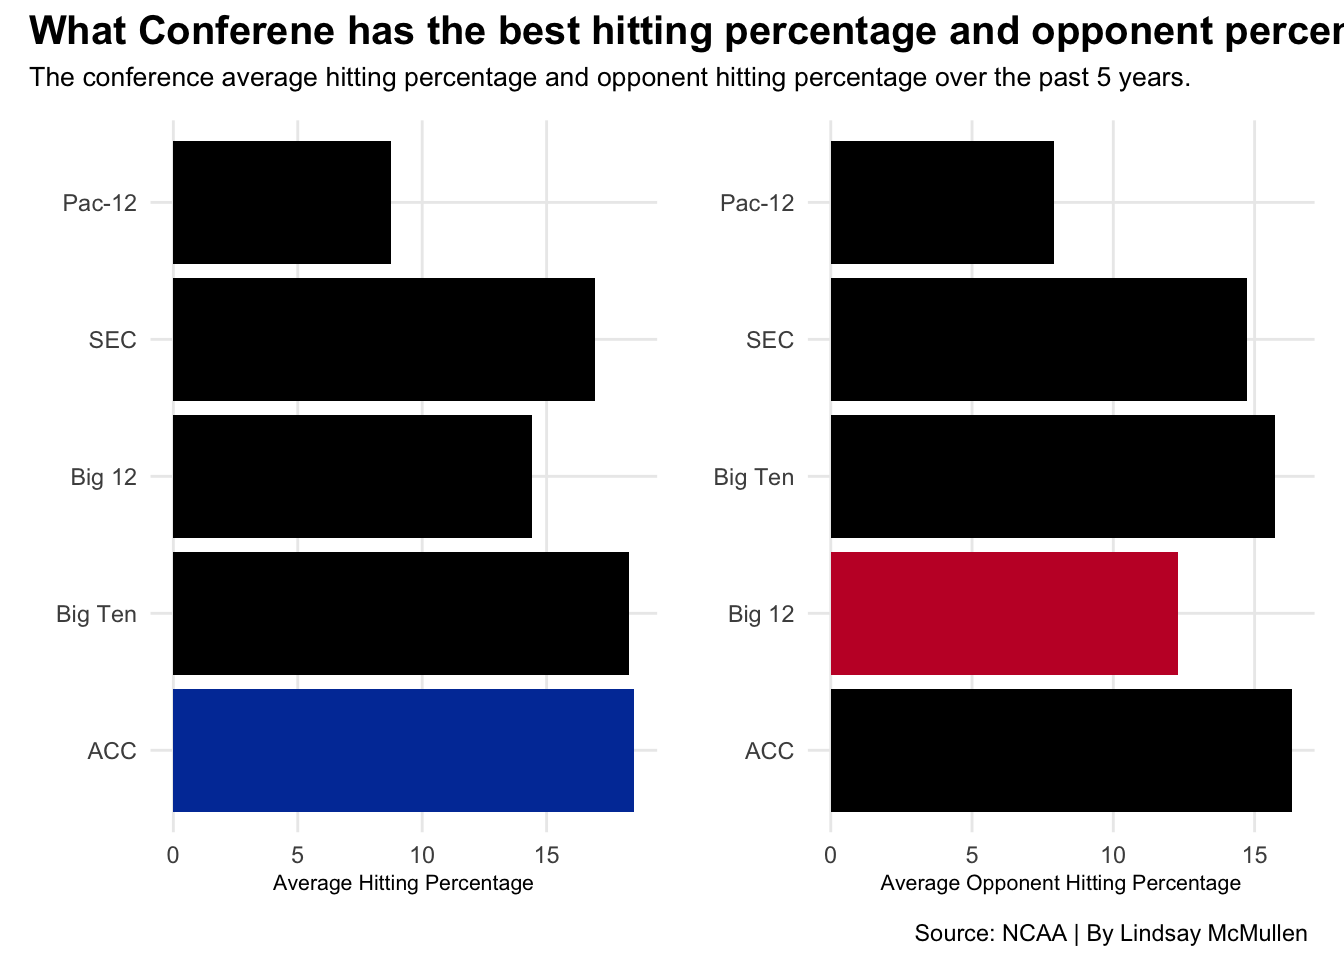
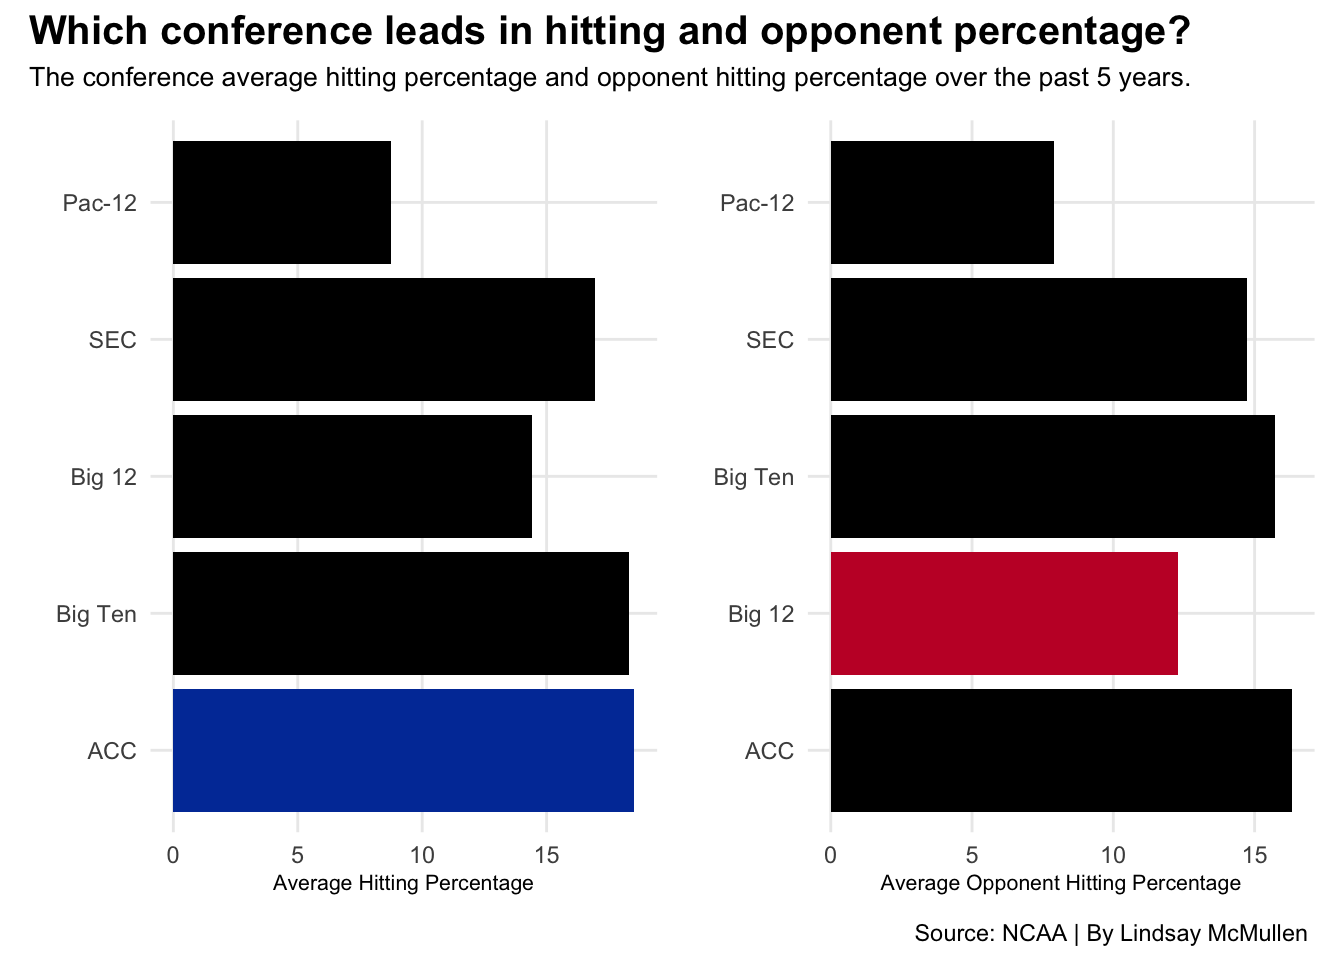
final draft

Changed region(s): [[0.0625, 0.0, 1.0, 0.0625]]

diff --git a/posts/who-is-the-true-volleyball-conference/index.html b/posts/who-is-the-true-volleyball-conference/index.html
@@ -241,7 +241,7 @@ pre > code.sourceCode > span > a:first-child::before { text-decoration: underlin
 <span id="cb1-38"><a href="#cb1-38" aria-hidden="true" tabindex="-1"></a></span>
 <span id="cb1-39"><a href="#cb1-39" aria-hidden="true" tabindex="-1"></a>bar1 <span class="sc">+</span> bar2 <span class="sc">+</span> </span>
 <span id="cb1-40"><a href="#cb1-40" aria-hidden="true" tabindex="-1"></a>  <span class="fu">plot_annotation</span>( </span>
-<span id="cb1-41"><a href="#cb1-41" aria-hidden="true" tabindex="-1"></a>    <span class="at">title =</span> <span class="st">"What Conferene has the best hitting percentage and opponent percentage?"</span>,</span>
+<span id="cb1-41"><a href="#cb1-41" aria-hidden="true" tabindex="-1"></a>    <span class="at">title =</span> <span class="st">"Which conference leads in hitting and opponent percentage?"</span>,</span>
 <span id="cb1-42"><a href="#cb1-42" aria-hidden="true" tabindex="-1"></a>    <span class="at">subtitle =</span> <span class="st">"The conference average hitting percentage and opponent hitting percentage over the past 5 years."</span>,</span>
 <span id="cb1-43"><a href="#cb1-43" aria-hidden="true" tabindex="-1"></a>    <span class="at">caption =</span> <span class="st">"Source: NCAA | By Lindsay McMullen "</span></span>
 <span id="cb1-44"><a href="#cb1-44" aria-hidden="true" tabindex="-1"></a>  )  <span class="sc">&amp;</span> </span>

diff --git a/index.html b/index.html
@@ -209,7 +209,7 @@ window.Quarto = {
 
 <div class="quarto-listing quarto-listing-container-default" id="listing-listing">
 <div class="list quarto-listing-default">
[2 lines of base64/hex data omitted]
 <div class="thumbnail"><a href="./posts/who-is-the-true-volleyball-conference/index.html" class="no-external">
 
 <img loading="lazy" src="./posts/who-is-the-true-volleyball-conference/image.png" class="thumbnail-image">
